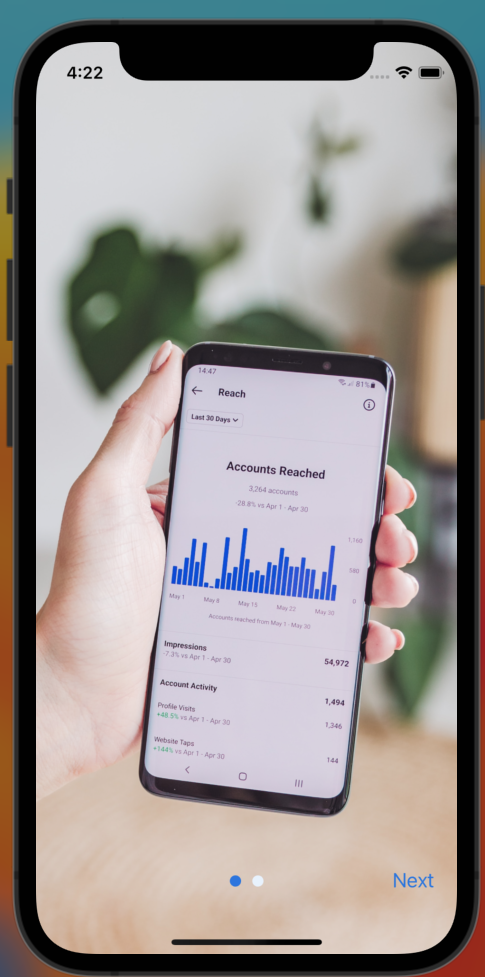
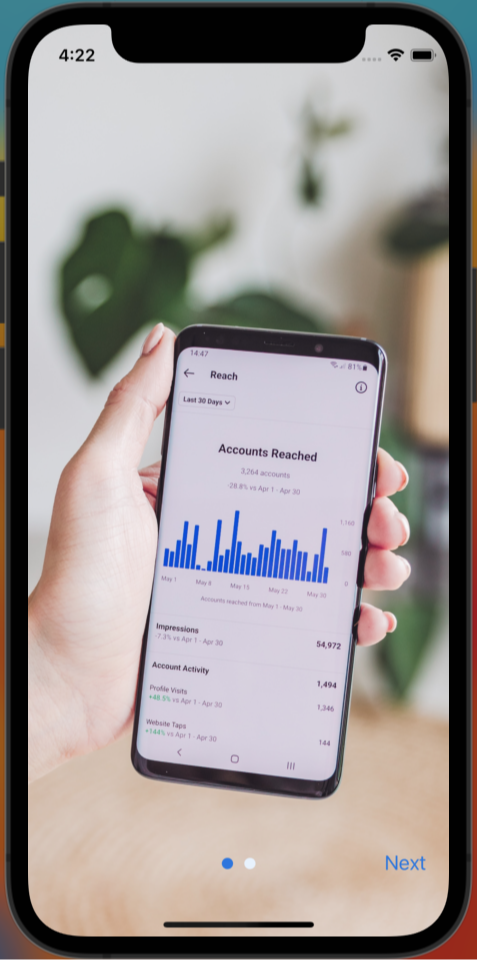
feat(blog): add demo images

diff --git a/README.md b/README.md
@@ -2,8 +2,8 @@
 
 A smooth and customizable onboarding swiper/slider for your React Native applications.
 
-| <img src="demo/demo1.png" width="300" height="500"> | <img src="demo/demo2.png" width="300" height="500"> |
-| --------------------------------------------------- | --------------------------------------------------- |
+| <img src="demo/demo1.png" width="300"> | <img src="demo/demo2.png" width="300"> |
+| -------------------------------------- | -------------------------------------- |
 
 ## Features
 
